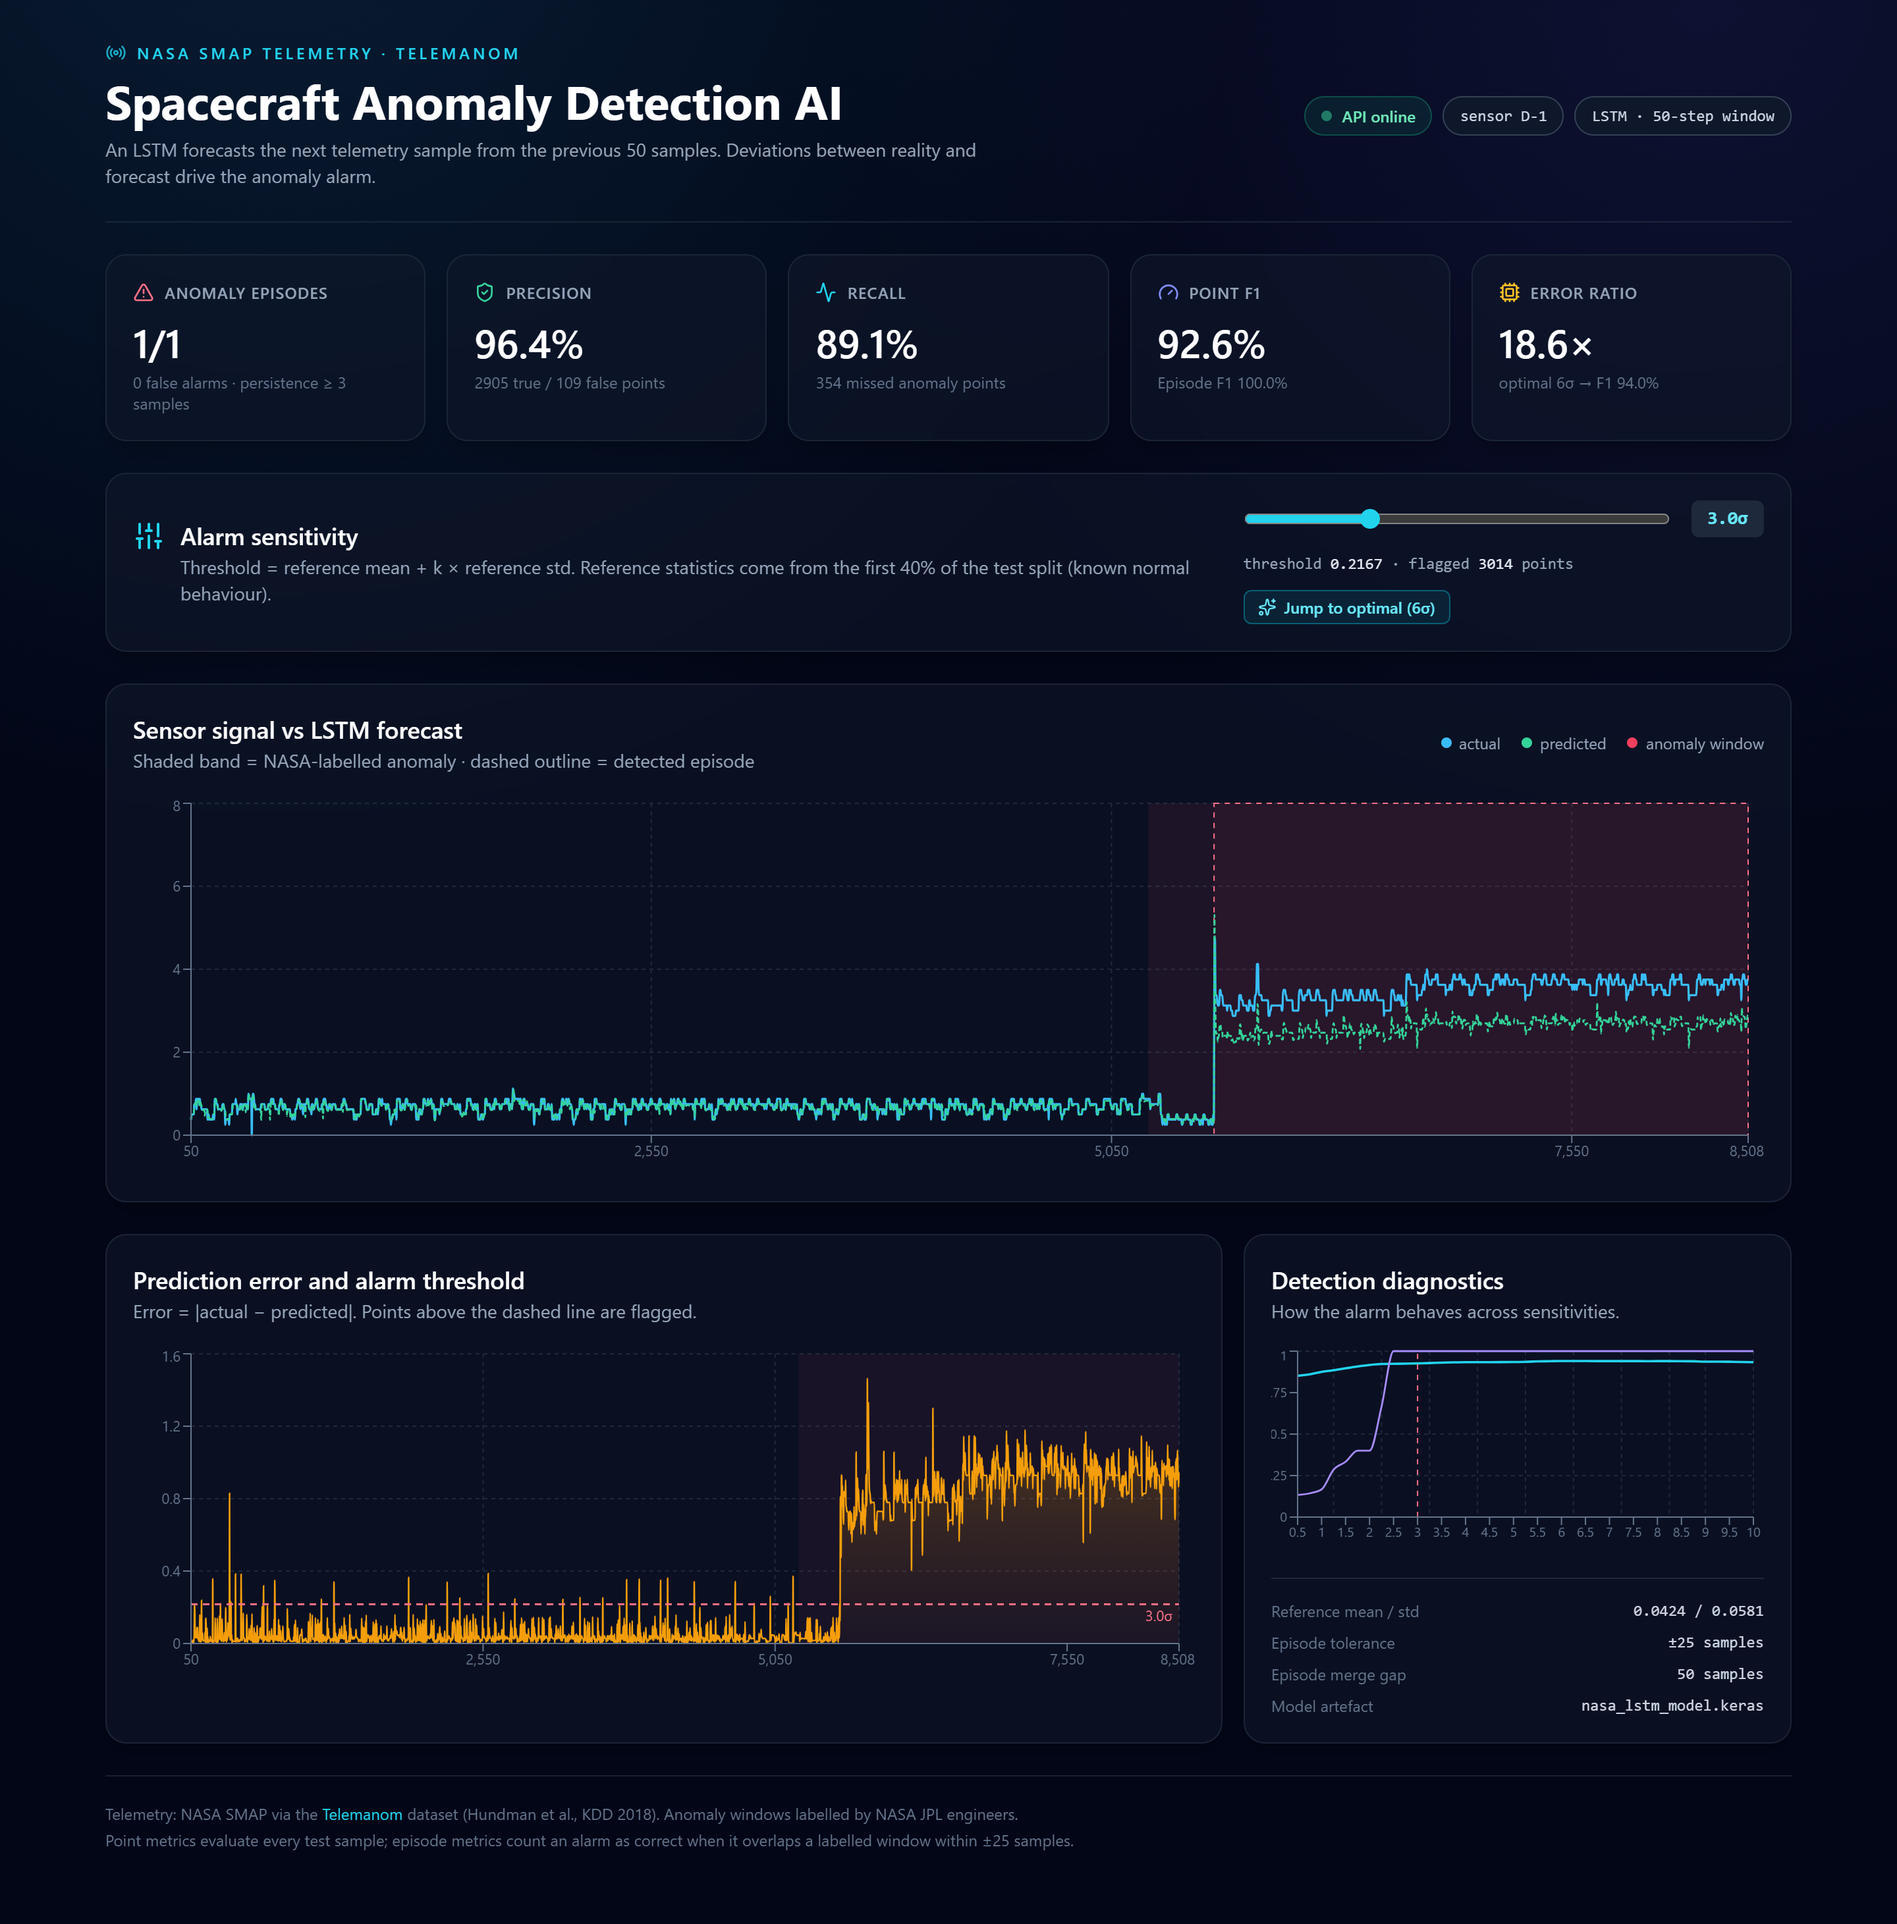
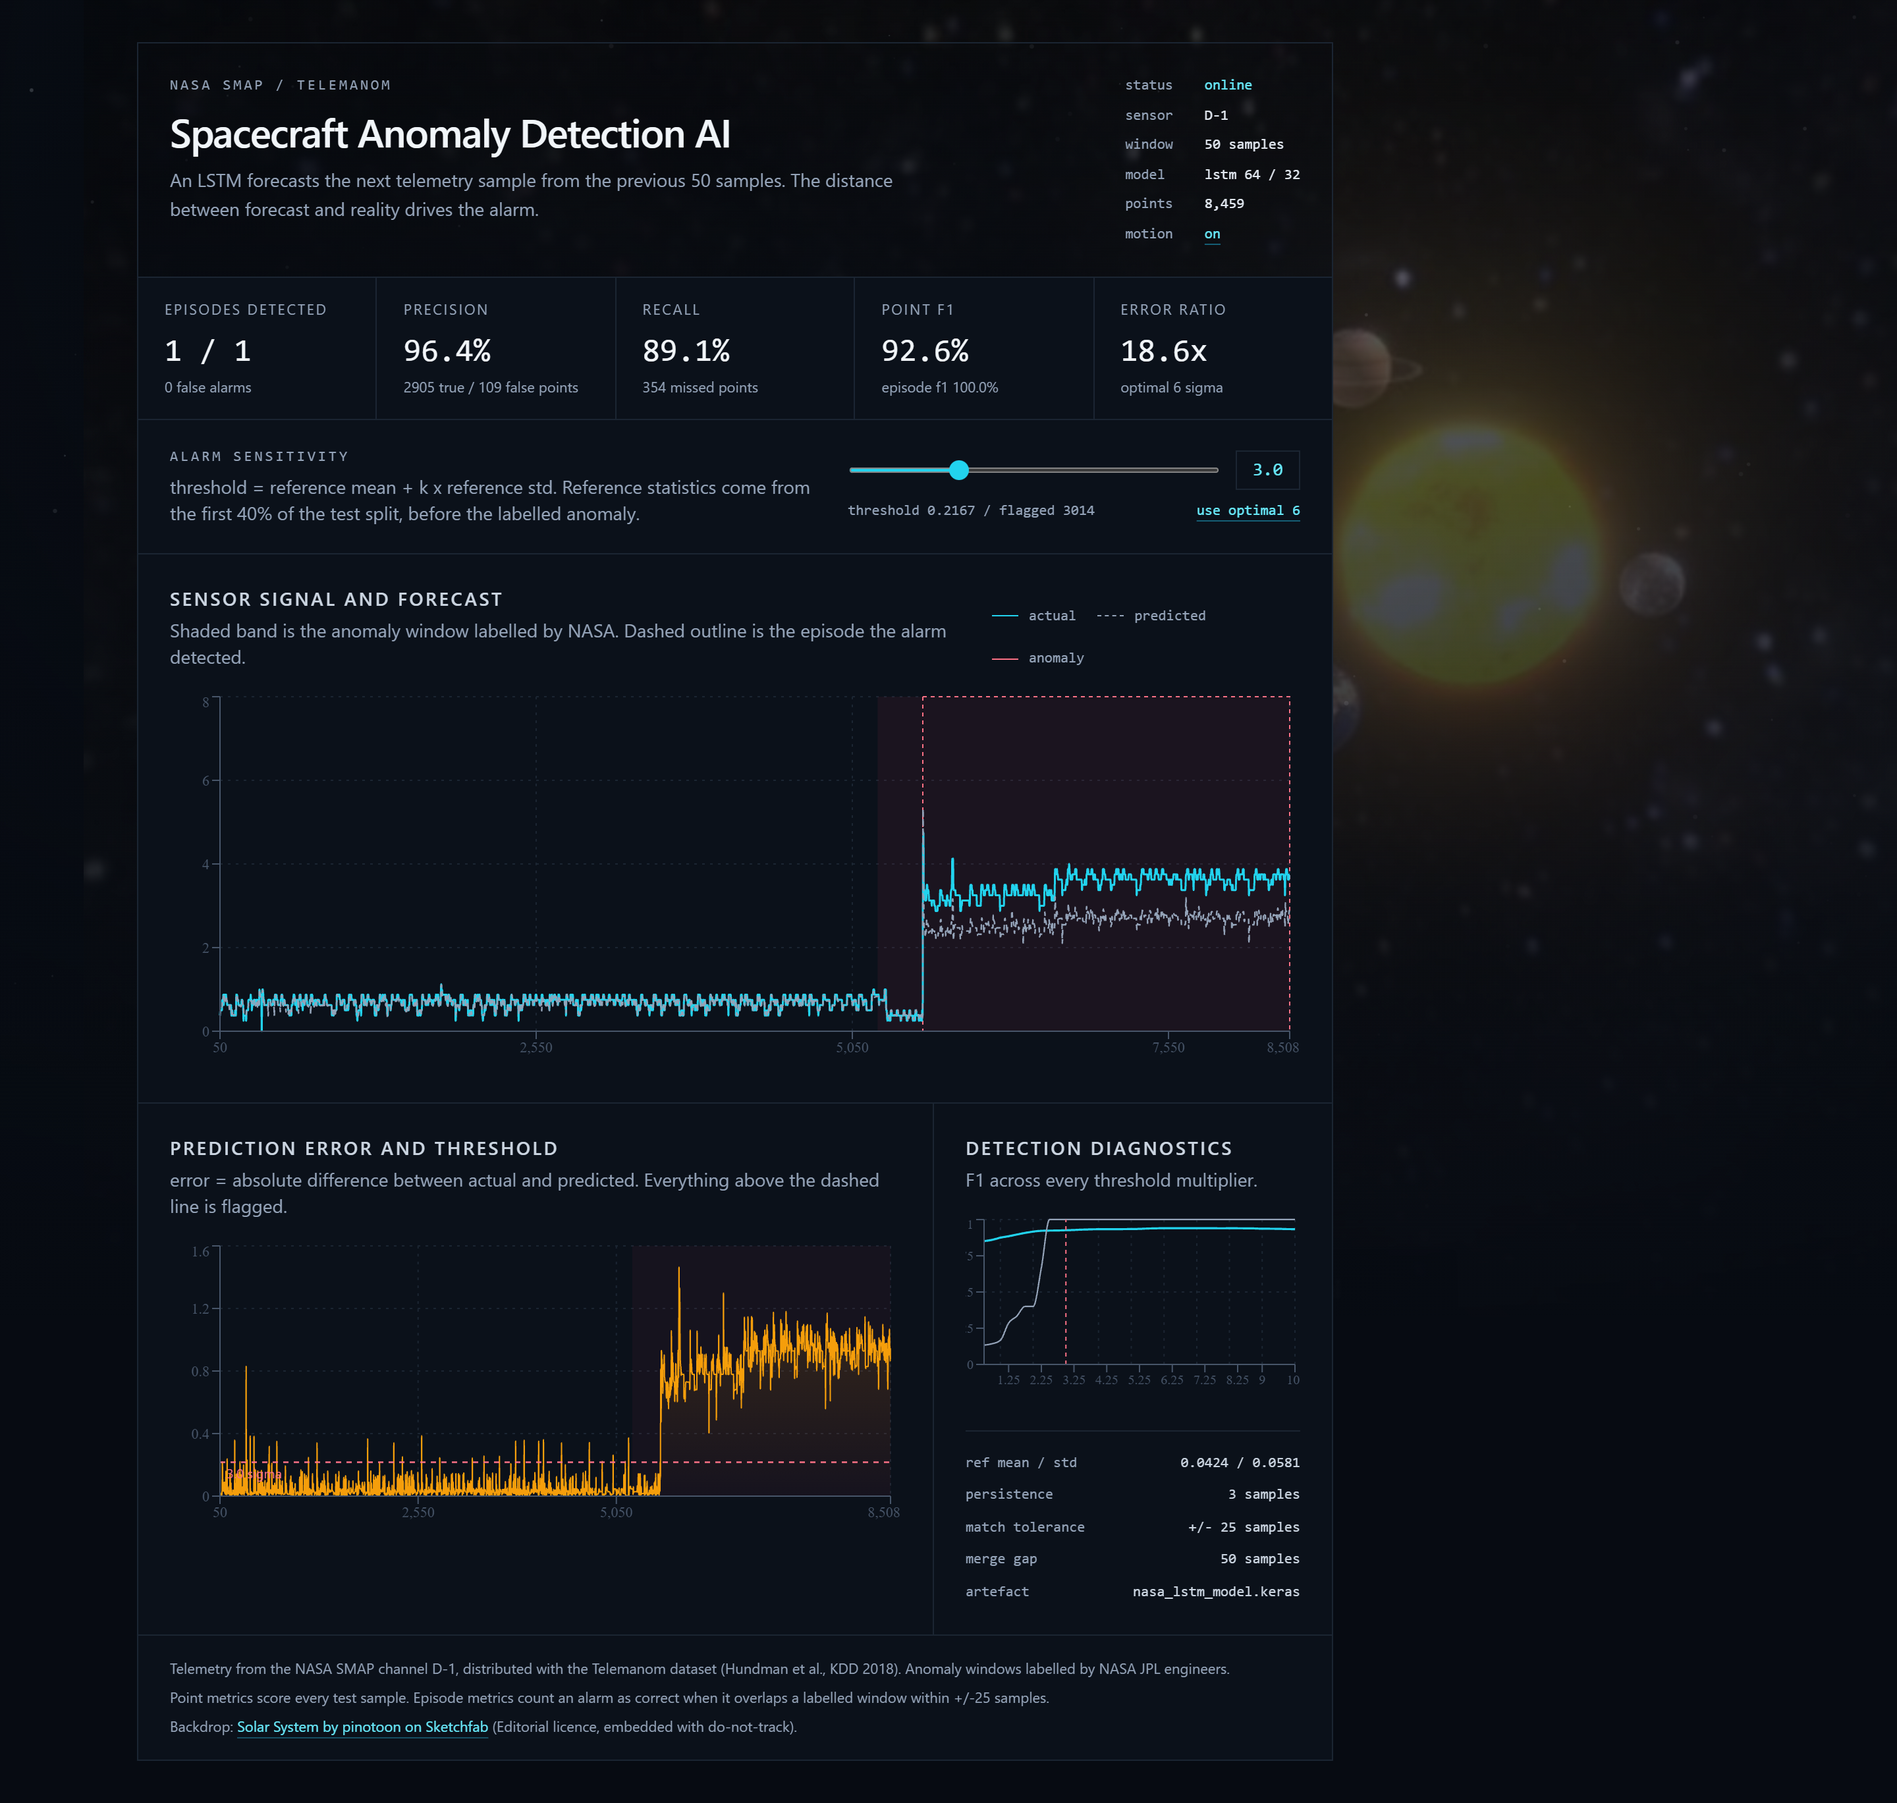
docs: refresh dashboard screenshot and record design decisions

diff --git a/README.md b/README.md
@@ -9,15 +9,17 @@ FastAPI backend and explored through an interactive React mission-control dashbo
 
 ## Highlights
 
-- **Real NASA telemetry** — Telemanom dataset (SMAP satellite, channel `D-1`) with anomaly
+- **Real NASA telemetry**: Telemanom dataset (SMAP satellite, channel `D-1`) with anomaly
   windows labelled by NASA JPL engineers.
-- **Principled model selection** — eight channels were screened with identical LSTM
+- **Principled model selection**: eight channels were screened with identical LSTM
   configurations before choosing `D-1` (see [benchmark](#channel-benchmark)).
-- **Episode-level detection** — a persistence filter suppresses isolated spikes, so alarms are
+- **Episode-level detection**: a persistence filter suppresses isolated spikes, so alarms are
   only raised for sustained deviations.
-- **Tunable sensitivity** — the dashboard slider recomputes precision, recall and F1 live.
-- **Production-shaped API** — cached inference at startup, typed query parameters, OpenAPI docs,
+- **Tunable sensitivity**: the dashboard slider recomputes precision, recall and F1 live.
+- **Production-shaped API**: cached inference at startup, typed query parameters, OpenAPI docs,
   Docker image ready for Hugging Face Spaces.
+- **Optional 3D backdrop**: a Sketchfab solar-system scene, lazily embedded, dimmed behind the
+  console, with a motion toggle and a CSS starfield fallback.
 
 ## Results
 
@@ -35,14 +37,17 @@ FastAPI backend and explored through an interactive React mission-control dashbo
 
 The React dashboard turns the raw forecast into a decision surface:
 
-- **Alarm sensitivity slider** — moves the threshold between `1σ` and `8σ` and recomputes point
+- **Alarm sensitivity slider**: moves the threshold between `1σ` and `8σ` and recomputes point
   precision / recall / F1 and episode recall instantly. A one-click button jumps to the
   empirically optimal multiplier (`6σ`, F1 `0.941`).
-- **Signal vs forecast** — actual telemetry (cyan) against the LSTM forecast (dashed emerald),
+- **Signal vs forecast**: actual telemetry (cyan) against the LSTM forecast (grey dashed),
   with NASA-labelled windows shaded and detected episodes outlined.
-- **Error chart** — the residual `|actual − predicted|` with the active threshold overlaid.
-- **Diagnostics** — F1 across every sensitivity, plus reference statistics and detection
+- **Error chart**: the residual `|actual − predicted|` with the active threshold overlaid.
+- **Diagnostics**: F1 across every sensitivity, plus reference statistics and detection
   configuration, so the trade-off between false alarms and missed anomalies is explicit.
+- **Backdrop**: an optional Sketchfab solar-system scene sits in the right margin on wide screens,
+  with a motion toggle, reduced-motion support, lazy loading and a starfield fallback. The visual
+  decisions are documented in [docs/DESIGN.md](docs/DESIGN.md).
 
 ## Architecture
 
@@ -151,7 +156,11 @@ OpenAPI documentation: `http://localhost:8000/docs`.
 │   ├── screen_channels.py       # channel benchmark
 │   ├── scaler_D-1.pkl           # fitted MinMaxScaler (reproducibility only)
 │   └── training_history.json
-├── docs/dashboard.png           # rendered dashboard
+├── docs/
+│   ├── dashboard.png            # rendered dashboard
+│   ├── DESIGN.md                # design decisions and anti-pattern notes
+│   └── DEPLOYMENT.md            # Hugging Face and Vercel guide
+├── SECURITY.md
 └── README.md
 ```
 
@@ -208,3 +217,5 @@ threat model, verification evidence and production environment variables are doc
   Thresholding* (KDD 2018), released via [telemanom](https://github.com/khundman/telemanom).
 - Telemetry mirror: [`appleparan/telemanom`](https://huggingface.co/datasets/appleparan/telemanom).
 - Data © NASA JPL, distributed under the Telemanom BSD-3-Clause licence.
+- Backdrop: *Solar System* by pinotoon on Sketchfab, licensed Editorial and embedded with
+  do-not-track. Replace it before any commercial use.

diff --git a/docs/DESIGN.md b/docs/DESIGN.md
@@ -1,0 +1,60 @@
+# Design notes
+
+The dashboard is deliberately styled as a telemetry console, not a marketing landing page. Every
+visual choice is tied to reading data quickly: flat surfaces, thin rules, monospaced numbers, a
+single cyan accent and red reserved for anomalies. The optional Sketchfab backdrop is the only
+decorative element, and it is dimmed, lazy-loaded and switchable.
+
+## Avoiding the "vibecoded" defaults
+
+| # | Common pattern | What this project does |
+| - | -------------- | ---------------------- |
+| 1 | Purple-to-blue gradient | Flat `#070b12` surface. The only gradients are neutral legibility scrims over the backdrop. |
+| 2 | Gradient hero text | Solid `slate-100` heading, no text clipping or gradient fills. |
+| 3 | Emojis in headings | None anywhere in the interface. |
+| 4 | Inter everywhere | System sans stack for prose, system monospace for every number and label. |
+| 5 | Coloured border cards | One neutral border colour (`#1b2532`) for every panel. |
+| 6 | Glassmorphism | Opaque panels. No `backdrop-blur`, no translucent cards. |
+| 7 | Low-contrast dark mode | Body text `slate-200/300`, secondary text raised from `slate-500` to `slate-400` for AA contrast. |
+| 8 | Three icon boxes in a row | A five-cell metrics strip with uppercase labels and monospaced values, no icons. |
+| 9 | Badge above the headline | Only a provenance line (`nasa smap / telemanom`) that states the mission and dataset. |
+| 10 | Lucide icons everywhere | Zero icon library in the UI; the dependency was removed. |
+| 11 | Untouched shadcn UI | No component framework; the layout is hand-built with Tailwind utilities. |
+| 12 | Fade-in on scroll | No scroll animations at all. |
+| 13 | Cursor-following beam | No pointer effects. |
+| 14 | Buttons fade on hover | Hover changes colour, never opacity. |
+| 15 | Inconsistent spacing | A single 4 px scale and 24 px section padding throughout. |
+| 16 | Em dashes everywhere | UI copy uses periods, slashes and `+` signs. |
+| 17 | Generic buzzword copy | Copy names the actual computation: threshold, persistence, tolerance, reference mean. |
+| 18 | Serif italic accents | None. |
+| 19 | Space Grotesk + Instrument Serif | No webfonts are loaded; system fonts only. |
+| 20 | Grain over a gradient | No grain, no noise overlays. |
+
+## The solar-system backdrop
+
+- The scene is the Sketchfab model *Solar System* by `pinotoon`, licensed **Editorial** and
+  attributed in the footer.
+- It is embedded only on viewports of at least 768 px, after the telemetry request finishes and
+  the browser is idle. It is unmounted while the tab is hidden and skipped under `Save-Data`.
+- The embed is dimmed and pushed to the margins with a scale and translation, so it reads as a
+  window into space next to the console instead of a wallpaper behind text.
+- A neutral vertical scrim protects contrast; charts live on opaque panels.
+- A deterministic SVG starfield (140 stars) renders underneath, so the page is complete when the
+  iframe is blocked or motion is disabled.
+- The `motion` control in the header pauses rotation (`autospin=0`) and is persisted in
+  `localStorage`. `prefers-reduced-motion` forces it off.
+
+## Typography and colour
+
+| Token | Value |
+| ----- | ----- |
+| Page background | `#070b12` |
+| Panel background | `#0b111a` |
+| Rule / border | `#1b2532` |
+| Primary accent | cyan `#22d3ee` (data, links, focus) |
+| Alarm accent | rose `#fb7185` (threshold, anomaly windows) |
+| Error series | amber `#f59e0b` |
+| Neutral series | slate `#94a3b8` |
+
+No colour is used for decoration: cyan marks interactivity and measurements, rose marks alarm state,
+amber marks the residual series.
